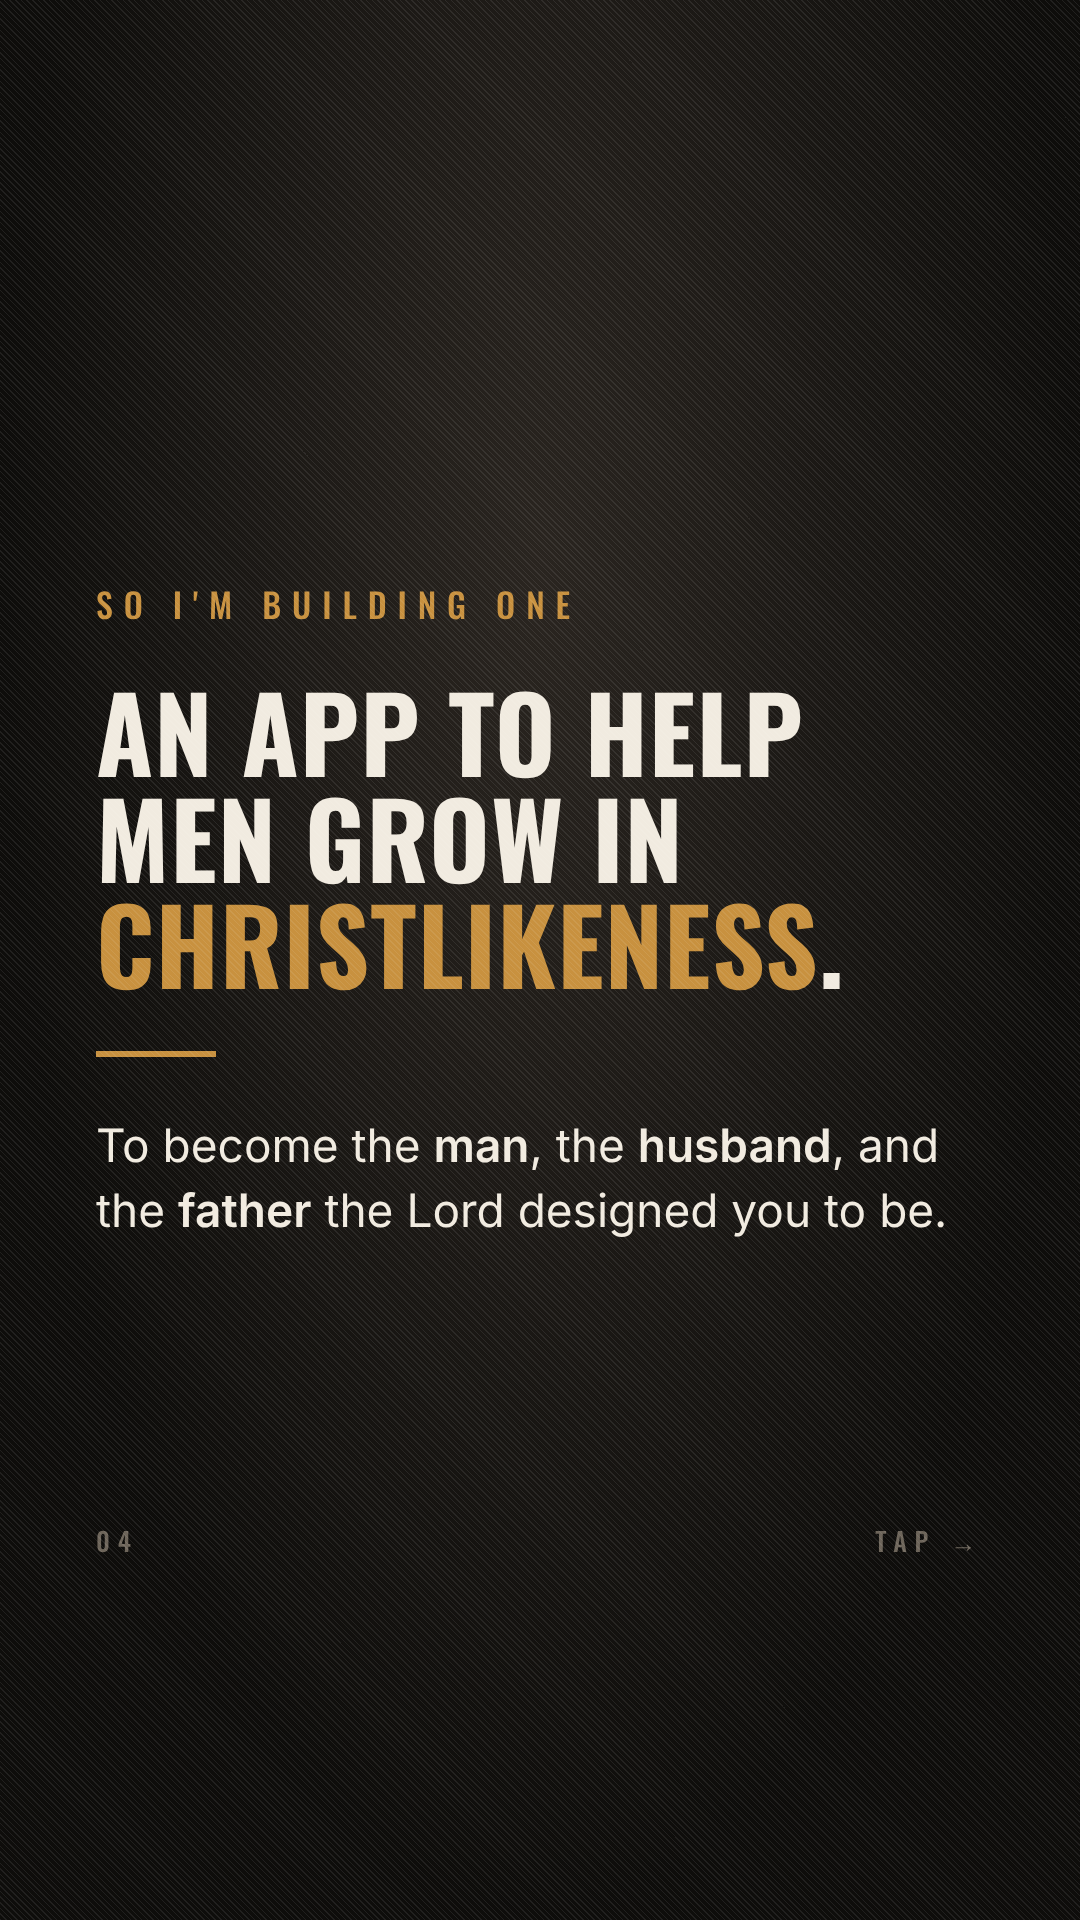
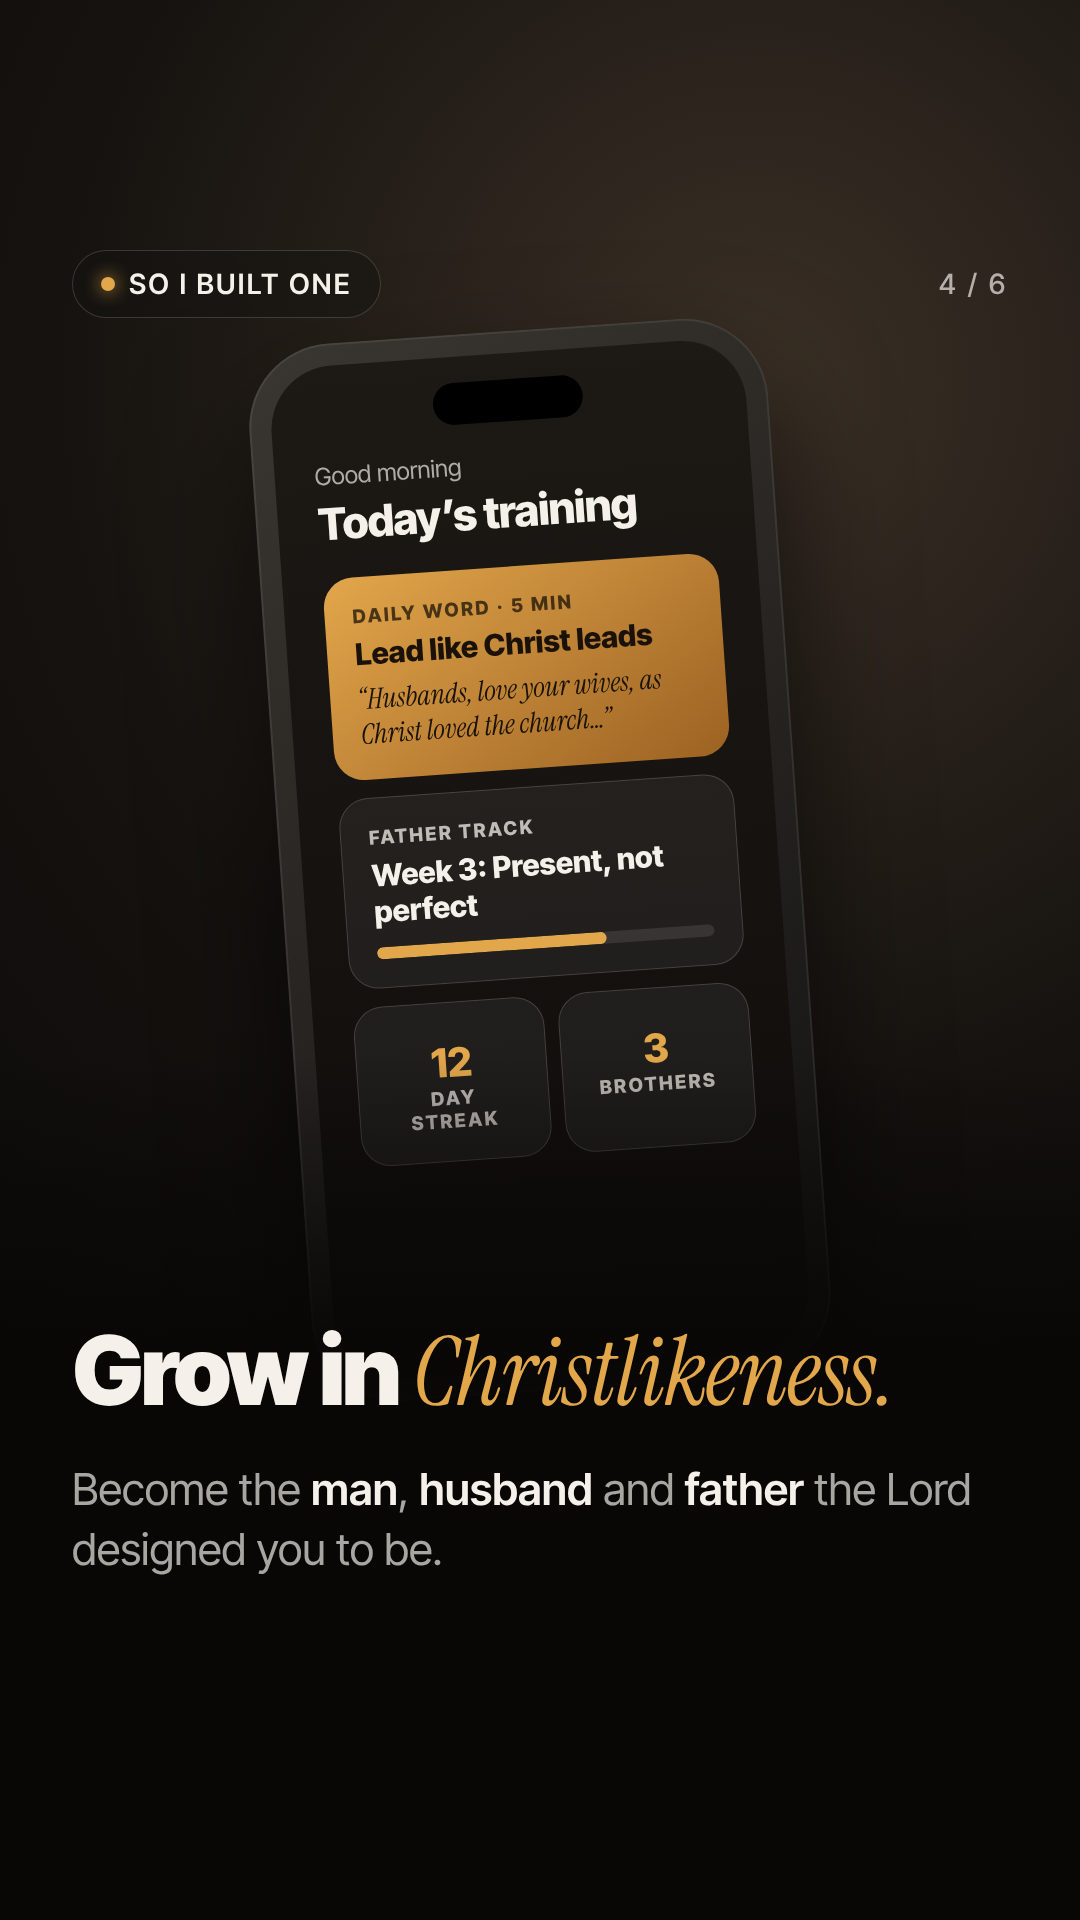
Redesign story slides with modern layout and full-bleed photo slots
Claude-Session: https://claude.ai/code/session_0116Hg7omUieHTTxqUcCEPH1

Changed region(s): [[0.0, 0.125, 1.0, 1.0], [0.7028, 0.0625, 1.0, 0.3125], [0.0917, 0.125, 0.1528, 0.1562]]

diff --git a/instagram-story/story.html b/instagram-story/story.html
@@ -3,140 +3,209 @@
 <head>
 <meta charset="utf-8">
 <title>Instagram Story</title>
-<link href="https://fonts.googleapis.com/css2?family=Oswald:wght@500;700&family=Inter:wght@400;600&family=Cormorant+Garamond:ital,wght@1,500&display=swap" rel="stylesheet">
+<link href="https://fonts.googleapis.com/css2?family=Inter+Tight:wght@400;500;600;800;900&family=Instrument+Serif:ital@0;1&display=swap" rel="stylesheet">
 <style>
   :root {
-    --ink: #0e0d0b;
-    --char: #1a1815;
-    --bone: #f1ebe0;
-    --muted: #a59d90;
-    --brass: #c8913f;
+    --bone: #f5f1ea;
+    --dim: rgba(245,241,234,.68);
+    --gold: #e2a64b;
+    --glass: rgba(20,18,16,.42);
+    --line: rgba(255,255,255,.16);
   }
   * { margin: 0; padding: 0; box-sizing: border-box; }
-  body { background: #333; font-family: Inter, sans-serif; }
-  /* Each slide is a full 1080x1920 story frame.
-     Text stays out of the top 250px and bottom 340px so IG's UI doesn't cover it. */
+  body { background: #222; font-family: "Inter Tight", sans-serif; }
+  /* 1080x1920 story frame. Copy sits between y=250 and y=1580 to clear IG's UI. */
   .slide {
-    width: 1080px; height: 1920px; position: relative; overflow: hidden;
-    background: radial-gradient(ellipse at 50% 30%, #2a2520 0%, var(--ink) 70%);
-    color: var(--bone);
-    padding: 260px 96px 360px;
-    display: flex; flex-direction: column; justify-content: center;
-    margin-bottom: 40px;
+    width: 1080px; height: 1920px; position: relative; overflow: hidden; color: var(--bone);
+    margin-bottom: 40px; background: #0b0a09;
   }
-  .slide::after { /* subtle grain */
-    content: ""; position: absolute; inset: 0; pointer-events: none; opacity: .08;
-    background-image: repeating-linear-gradient(45deg, #fff 0 1px, transparent 1px 4px);
+  /* Full-bleed photo. Drop photos/N.jpg in and it shows; until then a placeholder appears. */
+  .photo {
+    position: absolute; inset: 0;
+    background: var(--img, none) center / cover no-repeat,
+                radial-gradient(120% 70% at 70% 20%, #3b3026 0%, #15120f 55%, #0b0a09 100%);
   }
-  .kicker {
-    font-family: Oswald; font-weight: 500; letter-spacing: .32em; text-transform: uppercase;
-    color: var(--brass); font-size: 34px; margin-bottom: 48px;
+  .photo .ph {
+    position: absolute; top: 300px; left: 72px; right: 72px; height: 560px;
+    border: 3px dashed rgba(255,255,255,.22); border-radius: 40px;
+    display: flex; align-items: center; justify-content: center; text-align: center; padding: 60px;
+    font: 500 34px/1.4 "Inter Tight"; color: rgba(255,255,255,.4); letter-spacing: .02em;
   }
-  .rule { width: 120px; height: 6px; background: var(--brass); margin: 56px 0; }
-  h1, h2 {
-    font-family: Oswald; font-weight: 700; text-transform: uppercase; line-height: 1.02;
-    letter-spacing: .01em;
+  .photo.has-img .ph { display: none; }
+  .shade {
+    position: absolute; inset: 0;
+    background: linear-gradient(180deg, rgba(0,0,0,.45) 0%, rgba(0,0,0,0) 22%, rgba(0,0,0,.15) 45%, rgba(8,7,6,.88) 72%, #080706 100%);
   }
-  h1 { font-size: 132px; }
-  h2 { font-size: 104px; }
-  .accent { color: var(--brass); }
-  p { font-size: 46px; line-height: 1.4; color: var(--bone); }
-  p.muted { color: var(--muted); }
-  .verse {
-    font-family: "Cormorant Garamond", serif; font-style: italic; font-size: 62px; line-height: 1.3;
+  .content {
+    position: absolute; left: 72px; right: 72px; bottom: 340px;
+    display: flex; flex-direction: column; gap: 40px;
   }
-  .ref { font-family: Oswald; letter-spacing: .25em; font-size: 32px; color: var(--brass); margin-top: 32px; text-transform: uppercase; }
-  .list { list-style: none; margin-top: 24px; }
-  .list li {
-    font-size: 46px; line-height: 1.35; padding: 34px 0; border-top: 2px solid #3a342d;
-    display: flex; gap: 32px; align-items: baseline;
+  .top {
+    position: absolute; top: 250px; left: 72px; right: 72px;
+    display: flex; justify-content: space-between; align-items: center;
   }
-  .list li:last-child { border-bottom: 2px solid #3a342d; }
-  .list .n { font-family: Oswald; color: var(--brass); font-size: 40px; min-width: 60px; }
-  .strike { position: relative; color: var(--muted); }
-  .strike::after {
-    content: ""; position: absolute; left: -6px; right: -6px; top: 52%; height: 10px; background: var(--brass);
+  .pill {
+    display: inline-flex; align-items: center; gap: 14px; padding: 16px 28px; border-radius: 999px;
+    background: var(--glass); backdrop-filter: blur(18px); border: 1.5px solid var(--line);
+    font-weight: 600; font-size: 28px; letter-spacing: .08em; text-transform: uppercase;
   }
-  .cta-box {
-    margin-top: 72px; border: 4px solid var(--brass); padding: 48px 56px; text-align: center;
+  .pill .dot { width: 14px; height: 14px; border-radius: 50%; background: var(--gold); box-shadow: 0 0 18px var(--gold); }
+  .count { font-weight: 500; font-size: 28px; color: var(--dim); letter-spacing: .1em; }
+  h1, h2 { font-weight: 900; letter-spacing: -.035em; line-height: .94; }
+  h1 { font-size: 150px; }
+  h2 { font-size: 118px; }
+  .serif { font-family: "Instrument Serif", serif; font-style: italic; font-weight: 400; letter-spacing: -.01em; color: var(--gold); }
+  p { font-size: 44px; line-height: 1.38; color: var(--dim); font-weight: 400; }
+  p b { color: var(--bone); font-weight: 600; }
+  .glass {
+    background: var(--glass); backdrop-filter: blur(24px); border: 1.5px solid var(--line);
+    border-radius: 40px; padding: 44px 48px;
   }
-  .cta-box .big { font-family: Oswald; font-weight: 700; font-size: 88px; letter-spacing: .04em; }
-  .footer {
-    position: absolute; left: 96px; right: 96px; bottom: 360px;
-    font-family: Oswald; letter-spacing: .3em; font-size: 26px; color: #6d655a; text-transform: uppercase;
-    display: flex; justify-content: space-between;
+  .chips { display: flex; flex-wrap: wrap; gap: 18px; }
+  .chip {
+    padding: 22px 34px; border-radius: 999px; font-size: 38px; font-weight: 600;
+    background: rgba(255,255,255,.08); border: 1.5px solid var(--line); backdrop-filter: blur(18px);
   }
+  .chip s { color: var(--dim); text-decoration-color: var(--gold); text-decoration-thickness: 5px; }
+  .verse { font-family: "Instrument Serif", serif; font-style: italic; font-size: 64px; line-height: 1.18; color: var(--bone); }
+  .ref { margin-top: 24px; font-size: 28px; font-weight: 600; letter-spacing: .14em; color: var(--gold); text-transform: uppercase; }
+  .feat { display: flex; gap: 32px; align-items: center; padding: 30px 0; border-top: 1.5px solid var(--line); }
+  .feat:first-child { border-top: 0; padding-top: 0; }
+  .feat:last-child { padding-bottom: 0; }
+  .ico {
+    flex: none; width: 92px; height: 92px; border-radius: 28px; display: grid; place-items: center;
+    background: linear-gradient(145deg, #f0b75e, #b9792a); color: #1a1208;
+  }
+  .ico svg { width: 46px; height: 46px; }
+  .feat h3 { font-size: 42px; font-weight: 700; letter-spacing: -.01em; }
+  .feat p { font-size: 34px; margin-top: 6px; }
+  .cta {
+    display: flex; align-items: center; justify-content: space-between; padding: 30px 30px 30px 52px;
+    border-radius: 999px; background: var(--bone); color: #0b0a09;
+  }
+  .cta span { font-size: 40px; font-weight: 600; }
+  .cta b { font-size: 48px; font-weight: 900; background: #0b0a09; color: var(--gold); padding: 22px 44px; border-radius: 999px; letter-spacing: .04em; }
+
+  /* Phone mockup for slide 4 */
+  .phone {
+    position: absolute; top: 330px; left: 50%; transform: translateX(-50%) rotate(-4deg);
+    width: 520px; height: 1060px; border-radius: 84px; padding: 22px;
+    background: linear-gradient(145deg, #3a3631, #121110); box-shadow: 0 60px 120px rgba(0,0,0,.6), inset 0 0 0 2px rgba(255,255,255,.08);
+  }
+  .screen {
+    width: 100%; height: 100%; border-radius: 64px; overflow: hidden; position: relative;
+    background: linear-gradient(180deg, #1d1915 0%, #0e0c0a 100%); padding: 96px 40px 40px;
+  }
+  .notch { position: absolute; top: 26px; left: 50%; transform: translateX(-50%); width: 150px; height: 42px; border-radius: 30px; background: #000; }
+  .scr-hi { font-size: 24px; color: var(--dim); }
+  .scr-h { font-size: 44px; font-weight: 800; letter-spacing: -.02em; margin: 6px 0 28px; }
+  .scr-card { border-radius: 30px; padding: 28px; margin-bottom: 18px; background: rgba(255,255,255,.06); border: 1.5px solid var(--line); }
+  .scr-card.hero { background: linear-gradient(145deg, #e2a64b, #9c6222); color: #1a1208; border: 0; }
+  .scr-card .lbl { font-size: 19px; font-weight: 700; letter-spacing: .12em; text-transform: uppercase; opacity: .75; }
+  .scr-card .t { font-size: 30px; font-weight: 700; margin-top: 8px; line-height: 1.2; }
+  .scr-card .s { font-family: "Instrument Serif", serif; font-style: italic; font-size: 28px; margin-top: 10px; line-height: 1.25; }
+  .bar { height: 12px; border-radius: 99px; background: rgba(255,255,255,.1); margin-top: 18px; overflow: hidden; }
+  .bar i { display: block; height: 100%; width: 68%; background: var(--gold); border-radius: 99px; }
+  .row { display: flex; gap: 14px; }
+  .row .scr-card { flex: 1; text-align: center; }
+  .row .t { font-size: 40px; color: var(--gold); }
 </style>
 </head>
 <body>
 
 <!-- 1. HOOK -->
 <section class="slide" id="s1">
-  <div class="kicker">Real talk, men</div>
-  <h1>The world has <span class="accent">never</span> worked this hard to make men weak.</h1>
-  <div class="rule"></div>
-  <p class="muted">Not like this. Not ever.</p>
-  <div class="footer"><span>01</span><span>Tap →</span></div>
+  <div class="photo" data-n="1"><div class="ph">PHOTO 1<br>Lone man from behind, silhouetted against a stormy sky or city at dusk</div></div>
+  <div class="shade"></div>
+  <div class="top"><span class="pill"><span class="dot"></span>Real talk, men</span><span class="count">1 / 6</span></div>
+  <div class="content">
+    <h1>Never has the world fought this hard to make men <span class="serif">weak.</span></h1>
+    <p>Not like this. <b>Not ever.</b></p>
+  </div>
 </section>
 
 <!-- 2. THE ATTACK -->
 <section class="slide" id="s2">
-  <div class="kicker">This is an attack</div>
-  <ul class="list">
-    <li><span class="n">—</span><span>Strength gets called <b>toxic</b>.</span></li>
-    <li><span class="n">—</span><span>Passivity gets sold as <b>peace</b>.</span></li>
-    <li><span class="n">—</span><span>Leading your family is <b>optional</b>.</span></li>
-    <li><span class="n">—</span><span>Numb out. Check out. <b>Tap out.</b></span></li>
-  </ul>
-  <div class="rule"></div>
-  <h2>Playing <span class="strike">defense</span><br>isn't enough.</h2>
-  <div class="footer"><span>02</span><span>Tap →</span></div>
+  <div class="photo" data-n="2"><div class="ph">PHOTO 2<br>Man alone in a dark room, face lit only by his phone screen</div></div>
+  <div class="shade"></div>
+  <div class="top"><span class="pill"><span class="dot"></span>This is an attack</span><span class="count">2 / 6</span></div>
+  <div class="content">
+    <div class="chips">
+      <span class="chip">Strength → “toxic”</span>
+      <span class="chip">Passivity → “peace”</span>
+      <span class="chip">Fatherhood → “optional”</span>
+      <span class="chip">Numb out. Check out. Tap out.</span>
+    </div>
+    <h2>Playing <span class="serif">defense</span> isn’t enough.</h2>
+  </div>
 </section>
 
 <!-- 3. OFFENSE -->
 <section class="slide" id="s3">
-  <div class="kicker">Time to play offense</div>
-  <p class="verse">“Be watchful, stand firm in the faith, act like men, be strong. Let all that you do be done in love.”</p>
-  <div class="ref">1 Corinthians 16:13–14</div>
-  <div class="rule"></div>
-  <h2>Men need <span class="accent">tools</span> to fight back.</h2>
-  <div class="footer"><span>03</span><span>Tap →</span></div>
+  <div class="photo" data-n="3"><div class="ph">PHOTO 3<br>Weathered hands on an open Bible, early-morning window light, coffee nearby</div></div>
+  <div class="shade"></div>
+  <div class="top"><span class="pill"><span class="dot"></span>Time to play offense</span><span class="count">3 / 6</span></div>
+  <div class="content">
+    <div class="glass">
+      <div class="verse">“Be watchful, stand firm in the faith, act like men, be strong.”</div>
+      <div class="ref">1 Corinthians 16:13</div>
+    </div>
+    <h2>Men need <span class="serif">tools</span> to fight back.</h2>
+  </div>
 </section>
 
-<!-- 4. THE APP -->
+<!-- 4. THE APP (phone mockup) -->
 <section class="slide" id="s4">
-  <div class="kicker">So I'm building one</div>
-  <h2>An app to help men grow in <span class="accent">Christlikeness</span>.</h2>
-  <div class="rule"></div>
-  <p>To become the <b>man</b>, the <b>husband</b>, and the <b>father</b> the Lord designed you to be.</p>
-  <div class="footer"><span>04</span><span>Tap →</span></div>
+  <div class="photo"></div>
+  <div class="phone"><div class="screen"><div class="notch"></div>
+    <div class="scr-hi">Good morning</div>
+    <div class="scr-h">Today’s training</div>
+    <div class="scr-card hero"><div class="lbl">Daily Word · 5 min</div><div class="t">Lead like Christ leads</div><div class="s">“Husbands, love your wives, as Christ loved the church…”</div></div>
+    <div class="scr-card"><div class="lbl">Father track</div><div class="t">Week 3: Present, not perfect</div><div class="bar"><i></i></div></div>
+    <div class="row"><div class="scr-card"><div class="t">12</div><div class="lbl">Day streak</div></div><div class="scr-card"><div class="t">3</div><div class="lbl">Brothers</div></div></div>
+  </div></div>
+  <div class="shade" style="background:linear-gradient(180deg,rgba(0,0,0,0) 55%,rgba(8,7,6,.92) 70%,#080706 100%)"></div>
+  <div class="top"><span class="pill"><span class="dot"></span>So I built one</span><span class="count">4 / 6</span></div>
+  <div class="content">
+    <h2 style="font-size:96px">Grow in <span class="serif">Christlikeness.</span></h2>
+    <p>Become the <b>man</b>, <b>husband</b> and <b>father</b> the Lord designed you to be.</p>
+  </div>
 </section>
 
 <!-- 5. WHAT'S INSIDE -->
 <section class="slide" id="s5">
-  <div class="kicker">What it does</div>
-  <ul class="list">
-    <li><span class="n">01</span><span><b>Daily time in the Word</b> — short, focused, built for real life.</span></li>
-    <li><span class="n">02</span><span><b>Growth for every role</b> — as a man, a husband, a father.</span></li>
-    <li><span class="n">03</span><span><b>Habits &amp; accountability</b> that keep you moving forward.</span></li>
-  </ul>
-  <div class="rule"></div>
-  <p class="muted">Not more information. Transformation.</p>
-  <div class="footer"><span>05</span><span>Tap →</span></div>
+  <div class="photo" data-n="5"><div class="ph">PHOTO 5<br>Dad walking with his son or daughter outdoors, golden hour, shot from behind</div></div>
+  <div class="shade"></div>
+  <div class="top"><span class="pill"><span class="dot"></span>What’s inside</span><span class="count">5 / 6</span></div>
+  <div class="content">
+    <div class="glass">
+      <div class="feat"><div class="ico"><svg viewBox="0 0 24 24" fill="none" stroke="currentColor" stroke-width="2.4" stroke-linecap="round"><path d="M4 5a2 2 0 0 1 2-2h13v16H6a2 2 0 0 0-2 2z"/><path d="M4 21V5"/><path d="M12 7v6M9 10h6"/></svg></div><div><h3>Daily time in the Word</h3><p>Short, focused, built for real life.</p></div></div>
+      <div class="feat"><div class="ico"><svg viewBox="0 0 24 24" fill="none" stroke="currentColor" stroke-width="2.4" stroke-linecap="round"><path d="M3 20l6-8 4 5 3-4 5 7"/><circle cx="17" cy="6" r="2"/></svg></div><div><h3>Man · Husband · Father</h3><p>Growth tracks for every role.</p></div></div>
+      <div class="feat"><div class="ico"><svg viewBox="0 0 24 24" fill="none" stroke="currentColor" stroke-width="2.4" stroke-linecap="round"><circle cx="8" cy="8" r="3"/><circle cx="16" cy="8" r="3"/><path d="M2 20c0-3 3-5 6-5s6 2 6 5M14 15c3 0 8 1 8 5"/></svg></div><div><h3>Habits &amp; accountability</h3><p>Brothers who keep you moving.</p></div></div>
+    </div>
+  </div>
 </section>
 
 <!-- 6. CTA -->
 <section class="slide" id="s6">
-  <div class="kicker">I need a few good men</div>
-  <h2>Help me <span class="accent">test it</span>.</h2>
-  <p style="margin-top:40px">I'm opening it to a small group first. Use it, break it, tell me the truth.</p>
-  <div class="cta-box">
-    <p class="muted" style="font-size:38px">DM me the word</p>
-    <div class="big accent">“IRON”</div>
+  <div class="photo" data-n="6"><div class="ph">PHOTO 6<br>Small group of men laughing around a fire pit or a table — real brotherhood</div></div>
+  <div class="shade"></div>
+  <div class="top"><span class="pill"><span class="dot"></span>Beta testers wanted</span><span class="count">6 / 6</span></div>
+  <div class="content">
+    <h2>I need a few <span class="serif">good men.</span></h2>
+    <p>Use it. Break it. <b>Tell me the truth.</b></p>
+    <div class="cta"><span>DM me the word</span><b>IRON</b></div>
+    <p style="font-size:32px">Proverbs 27:17 — iron sharpens iron.</p>
   </div>
-  <p class="muted" style="margin-top:48px; font-size:38px">Proverbs 27:17 — iron sharpens iron.</p>
-  <div class="footer"><span>06</span><span>Let's go</span></div>
 </section>
 
+<script>
+  // Use photos/N.jpg as the background when it exists.
+  document.querySelectorAll('.photo[data-n]').forEach(el => {
+    const src = 'photos/' + el.dataset.n + '.jpg', img = new Image();
+    img.onload = () => { el.style.setProperty('--img', `url(${src})`); el.classList.add('has-img'); };
+    img.src = src;
+  });
+</script>
 </body>
 </html>
